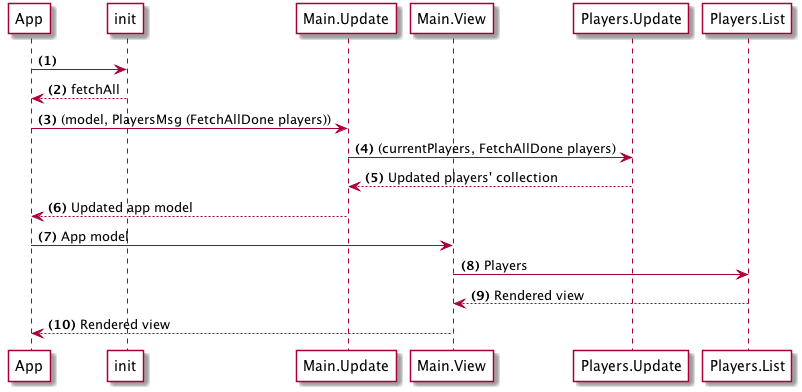
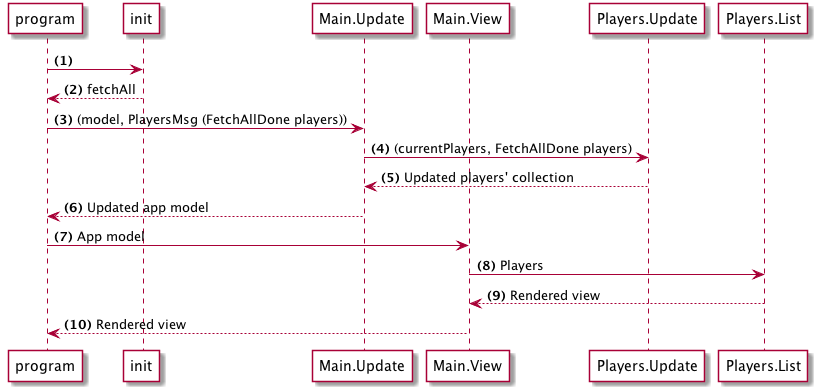
Update fetch to 018

diff --git a/en/06-fetching-resources/04-players-cmds.md b/en/06-fetching-resources/04-players-cmds.md
@@ -1,4 +1,4 @@
-> This page covers Elm 0.17
+> This page covers Elm 0.18
 
 # Players commands
 
@@ -8,16 +8,15 @@ Now we need to create the tasks and command to fetch the players from the server
 module Players.Commands exposing (..)
 
 import Http
-import Json.Decode as Decode exposing ((:=))
-import Task
+import Json.Decode as Decode exposing (field)
 import Players.Models exposing (PlayerId, Player)
 import Players.Messages exposing (..)
 
 
 fetchAll : Cmd Msg
 fetchAll =
-    Http.get collectionDecoder fetchAllUrl
-        |> Task.perform FetchAllFail FetchAllDone
+    Http.get fetchAllUrl collectionDecoder
+        |> Http.send OnFetchAll
 
 
 fetchAllUrl : String
@@ -32,10 +31,10 @@ collectionDecoder =
 
 memberDecoder : Decode.Decoder Player
 memberDecoder =
-    Decode.object3 Player
-        ("id" := Decode.int)
-        ("name" := Decode.string)
-        ("level" := Decode.int)
+    Decode.map3 Player
+        (field "id" Decode.string)
+        (field "name" Decode.string)
+        (field "level" Decode.int)
 ```
 ---
 
@@ -44,14 +43,14 @@ Let's go through this code.
 ```elm
 fetchAll : Cmd Msg
 fetchAll =
-    Http.get collectionDecoder fetchAllUrl
-        |> Task.perform FetchAllFail FetchAllDone
+    Http.get fetchAllUrl collectionDecoder
+        |> Http.send OnFetchAll
 ```
 
 Here we create a command for our application to run.
 
-- `Http.get` creates a task
-- We then send this task to `Task.perform` which wraps it in a command
+- `Http.get` creates a `Request`
+- We then send this request to `Http.send` which wraps it in a command
 
 ```elm
 collectionDecoder : Decode.Decoder (List Player)
@@ -64,16 +63,16 @@ This decoder delegates the decoding of each member of a list to `memberDecoder`
 ```elm
 memberDecoder : Decode.Decoder Player
 memberDecoder =
-    Decode.object3 Player
-        ("id" := Decode.int)
-        ("name" := Decode.string)
-        ("level" := Decode.int)
+    Decode.map3 Player
+        (field "id" Decode.string)
+        (field "name" Decode.string)
+        (field "level" Decode.int)
 ```
 
 `memberDecoder` creates a JSON decoder that returns a `Player` record.
 
 ---
-To understand how the decoder works let's play with the elm repl.
+To understand how the decoder works let's play with the Elm repl.
 
 In a terminal run `elm repl`. Import the Json.Decoder module:
 
@@ -90,7 +89,7 @@ Then define a Json string:
 And define a decoder to extract the `id`:
 
 ```bash
-> idDecoder = ("id" := int)
+> idDecoder = (field "id" int)
 ```
 
 This creates a decoder that given a string tries to extract the `id` key and parse it into a integer.
@@ -102,7 +101,7 @@ Run this decoder to see the result:
 Ok 99 : Result.Result String Int
 ```
 
-We see `Ok 99` meaning that decoding was successful and we got 99. So this is what `("id" := Decode.int)` does, it creates a decoder for a single key.
+We see `Ok 99` meaning that decoding was successful and we got 99. So this is what `(field "id" Decode.int)` does, it creates a decoder for a single key.
 
 This is one part of the equation. Now for the second part, define a type:
 
@@ -122,11 +121,11 @@ Try it:
 With these two concepts let's create a complete decoder:
 
 ```bash
-> nameDecoder = ("name" := string)
-> playerDecoder = object2 Player idDecoder nameDecoder
+> nameDecoder = (field "name" string)
+> playerDecoder = map2 Player idDecoder nameDecoder
 ```
 
-`object2` takes a function as first argument (Player in this case) and two decoders. Then it runs the decoders and passes the results as the arguments to the function (Player).
+`map2` takes a function as first argument (Player in this case) and two decoders. Then it runs the decoders and passes the results as the arguments to the function (Player).
 
 Try it:
 ```bash
@@ -136,4 +135,4 @@ Ok { id = 99, name = "Sam" } : Result.Result String Repl.Player
 
 ---
 
-Remember that none of this actually executes until we send the command to __Html.App__.
+Remember that none of this actually executes until we send the command to __program__.

diff --git a/en/06-fetching-resources/03-players-update.md b/en/06-fetching-resources/03-players-update.md
@@ -1,8 +1,8 @@
-> This page covers Elm 0.17
+> This page covers Elm 0.18
 
 # Players Update
 
-When the request for players is done, we trigger the `FetchAllDone` message.
+When the request for players is done, we trigger the `OnFetchAll` message.
 
 __src/Players/Update.elm__ should account for this new message. Change `update` to:
 
@@ -11,13 +11,14 @@ __src/Players/Update.elm__ should account for this new message. Change `update` 
 update : Msg -> List Player -> ( List Player, Cmd Msg )
 update message players =
     case message of
-        FetchAllDone newPlayers ->
+        OnFetchAll (Ok newPlayers) ->
             ( newPlayers, Cmd.none )
 
-        FetchAllFail error ->
+        OnFetchAll (Err error) ->
             ( players, Cmd.none )
 ```
 
-The message `FetchAllDone` has the fetched players, so we return that payload to update the players collection.
+When we get `OnFetchAll` we can use pattern matching to decide what to do. 
 
-`FetchAllFail` matches in the case of an error. For now we will just return what we had before.
+- In the `Ok` case we return the fetched players in order to update the players collection.
+- In the `Err` case we just return what we had before for now (A better approach would be to show an error to the user, but for simplicity of the tutorial we won't be doing this now).

diff --git a/en/06-fetching-resources/02-players-messages.md b/en/06-fetching-resources/02-players-messages.md
@@ -1,4 +1,4 @@
-> This page covers Elm 0.17
+> This page covers Elm 0.18
 
 # Players messages
 
@@ -12,11 +12,7 @@ import Players.Models exposing (PlayerId, Player)
 
 
 type Msg
-    = FetchAllDone (List Player)
-    | FetchAllFail Http.Error
+    = OnFetchAll (Result Http.Error (List Player))
 ```
 
-`FetchAllDone` will be called when we get the response from the server. This message will carry the list of fetched players.
-
-`FetchAllFail` will be called if there is a problem fetching the data.
-
+`OnFetchAll` will be called when we get the response from the server. This message will carry a `Result` which can be either an `Http.Error` or the the list of fetched players.

diff --git a/en/06-fetching-resources/06-try-it.md b/en/06-fetching-resources/06-try-it.md
@@ -18,4 +18,4 @@ Refresh the browser, our application should now fetch the list of players from t
 
 ![Screenshot](screenshot.png)
 
-Your application code should look at this stage like <https://github.com/sporto/elm-tutorial-app/tree/05-fetch>.
+Your application code should look at this stage like <https://github.com/sporto/elm-tutorial-app/tree/018-05-fetch>.

diff --git a/en/06-fetching-resources/05-main.md b/en/06-fetching-resources/05-main.md
@@ -1,4 +1,4 @@
-> This page covers Elm 0.17
+> This page covers Elm 0.18
 
 # Main
 
